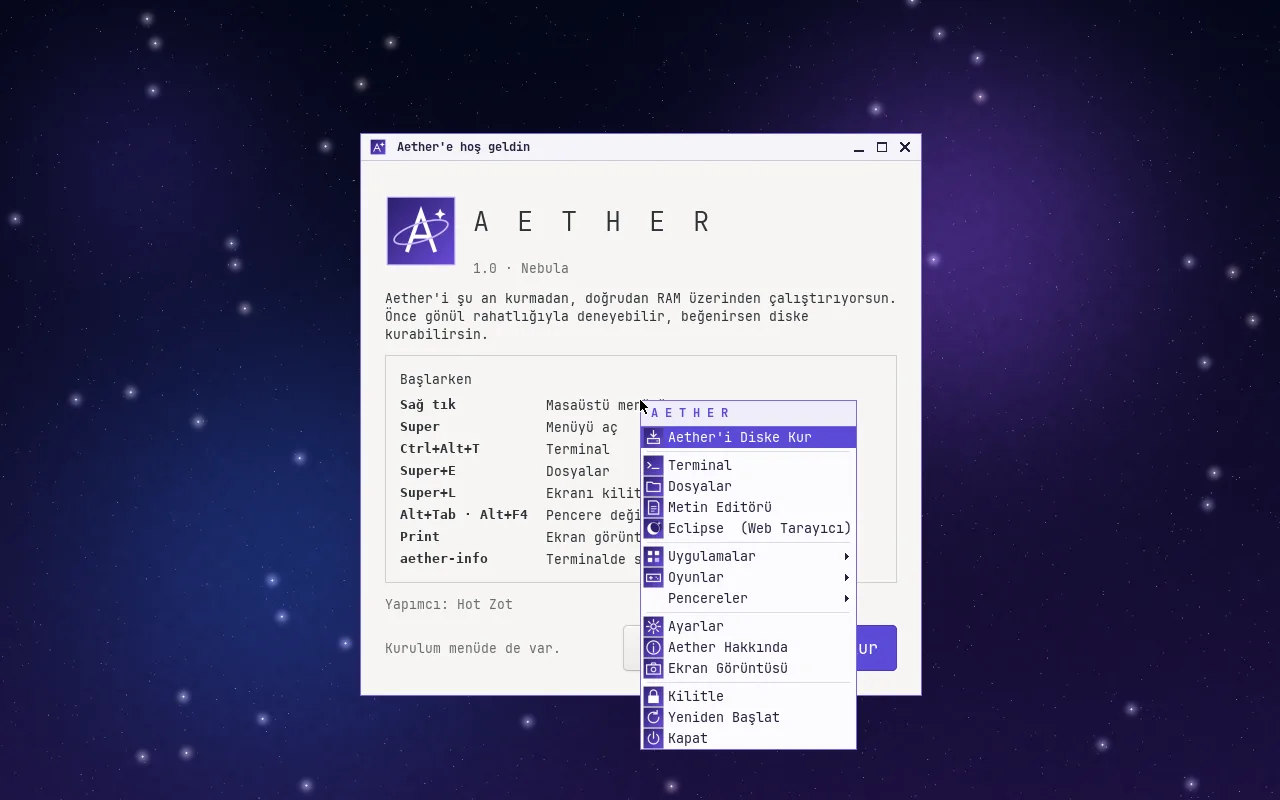
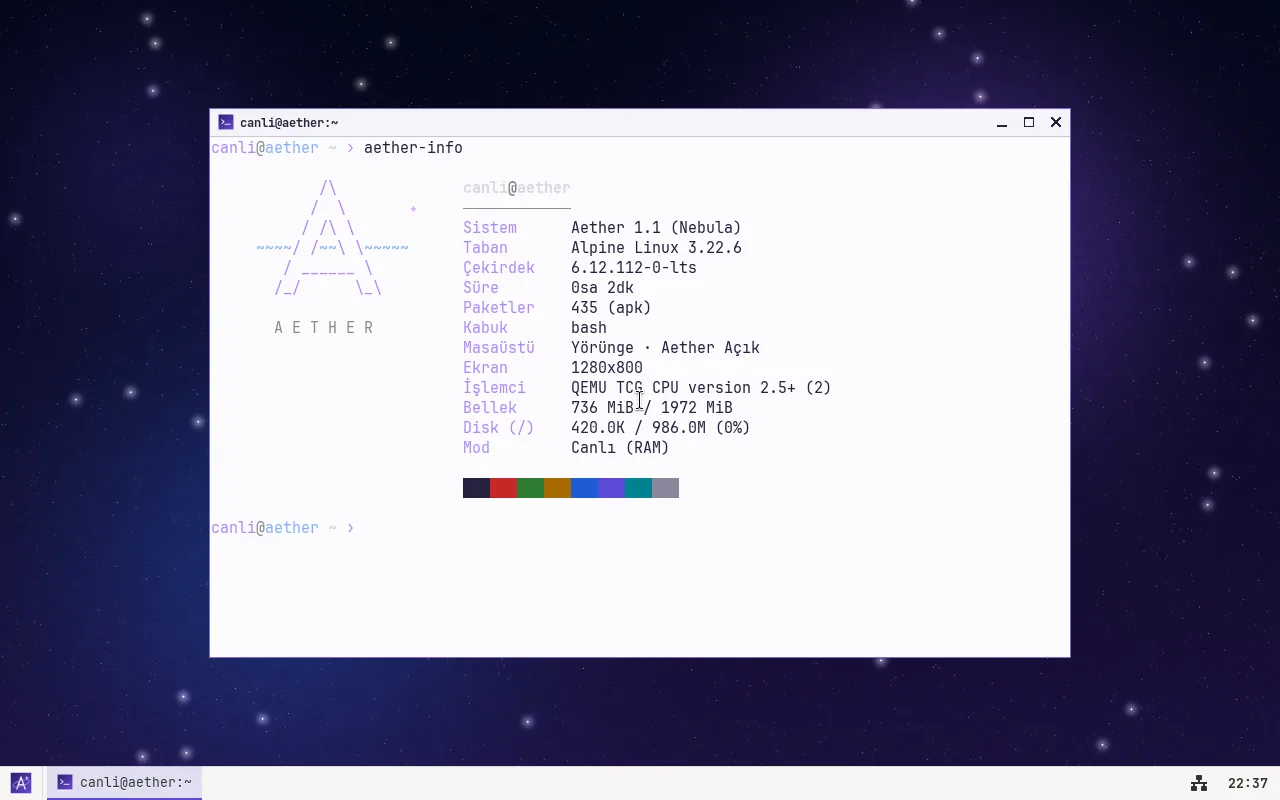
1.1 "Nebula"

Changed region(s): [[0.0, 0.125, 1.0, 1.0], [0.6562, 0.3438, 0.6875, 0.375]]

diff --git a/index.html b/index.html
@@ -102,38 +102,38 @@ pre { background: var(--kod); padding: 10px 12px; overflow-x: auto; font-size: 1
 
 <p>Merhaba, ben Hot Zot. Aether, tamamen merak ettiğim için yaptığım küçük bir Linux dağıtımı. Bir işletim sisteminin içinde neler döndüğünü görmek istedim; sonra iş büyüdü ve kendi kurulum programı, ayarları, hatta kendi tarayıcısı olan bir şeye dönüştü.</p>
 
-<p>Alpine Linux üzerine kurulu, ISO dosyası 370 MB civarında. Açılışta RAM'e yükleniyor, beğenirsen diske kurabiliyorsun. Arayüz Türkçe (İngilizce de var).</p>
+<p>Alpine Linux üzerine kurulu, ISO dosyası 485 MB civarında. Açılışta RAM'e yükleniyor, beğenirsen diske kurabiliyorsun. Arayüz Türkçe (İngilizce de var).</p>
 
 <figure>
   <a href="img/masaustu.webp"><img src="img/masaustu.webp" width="1280" height="800" alt="Aether masaüstü"></a>
-  <figcaption>Masaüstü. Menü için sağ tık ya da Super tuşu.</figcaption>
+  <figcaption>Masaüstü, Yörünge ve Aether Terminal. Menü için soldaki logo, sağ tık ya da Super tuşu.</figcaption>
 </figure>
 
 <h2 id="indir">İndir</h2>
 
-<p>Şu anki sürüm <b>1.0 "Nebula"</b> (7 Ekim 2026).</p>
+<p>Şu anki sürüm <b>1.1 "Nebula"</b> (8 Ekim 2026). Eski sürümler sürümler sayfasında duruyor.</p>
 
 <div class="tablo">
 <table>
   <tr><th>dosya</th><th>boyut</th><th>ne</th></tr>
   <tr>
-    <td><a href="https://github.com/1260120047-eng/aether/releases/download/1.0/aether-1.0-nebula.iso">aether-1.0-nebula.iso</a>
-      <span class="ozet">sha256: 4c39291651189f02c48a4a20749b7d972dfbc11af0663dd5f7e9ad2f8766d0f1</span></td>
-    <td class="boy">370 MB</td>
+    <td><a href="https://github.com/1260120047-eng/aether/releases/download/1.1/aether-1.1-nebula.iso">aether-1.1-nebula.iso</a>
+      <span class="ozet">sha256: b7f82d963c78a9e3547463438df34c16fb24ee85f16842e20599a84706650dfa</span></td>
+    <td class="boy">485 MB</td>
     <td>işletim sistemi, x86_64, BIOS + UEFI</td>
   </tr>
   <tr>
-    <td><a href="https://github.com/1260120047-eng/aether/releases/download/1.0/Eclipse-Windows.zip">Eclipse-Windows.zip</a>
-      <span class="ozet">sha256: 479babda80bb3ee3a78c6a268397ae9f922be8d7fdd01809bcf366013b6f86fd</span></td>
-    <td class="boy">530 KB</td>
+    <td><a href="https://github.com/1260120047-eng/aether/releases/download/1.1/Eclipse-Windows.zip">Eclipse-Windows.zip</a>
+      <span class="ozet">sha256: 4d2270a6167e861c8e8ca14c2fbdd2f535d514414b7749238180bb74ba35c0f3</span></td>
+    <td class="boy">575 KB</td>
     <td>Eclipse tarayıcının Windows 10/11 sürümü</td>
   </tr>
 </table>
 </div>
 
 <p>İndirdikten sonra dosyanın sağlam olup olmadığını kontrol etmek istersen:</p>
-<pre>sha256sum aether-1.0-nebula.iso                    # Linux
-certutil -hashfile aether-1.0-nebula.iso SHA256    # Windows</pre>
+<pre>sha256sum aether-1.1-nebula.iso                    # Linux
+certutil -hashfile aether-1.1-nebula.iso SHA256    # Windows</pre>
 
 <p>Aether açık kaynak. Kodların hepsi <a href="https://github.com/1260120047-eng/aether-os">github.com/1260120047-eng/aether-os</a> adresinde, GPL-3.0 lisansıyla. Nasıl derleneceği de orada yazıyor.</p>
 
@@ -143,11 +143,12 @@ certutil -hashfile aether-1.0-nebula.iso SHA256    # Windows</pre>
 
 <ul>
   <li>Linux 6.12 LTS çekirdeği, Alpine 3.22 tabanı</li>
-  <li>Openbox masaüstü, açık ve koyu tema (Ayarlar'dan anında değişiyor)</li>
+  <li>Yörünge: kendi yazdığım pencere yöneticisi. Altta görev çubuğu, açık ve koyu tema (Ayarlar'dan anında değişiyor)</li>
+  <li>Wi-Fi, ses, bildirimler. Ayarlar'da bir de Sürücüler sayfası var: donanımı tanıyor, eksik firmware'i tek tıkla kuruyor</li>
   <li>Kendi yazdığım kurulum programı: dil, klavye, kullanıcı, disk</li>
-  <li>Eclipse: yine kendi yazdığım, WebKit tabanlı tarayıcı. Sekmeler, yer imleri, geçmiş, gizli pencere var</li>
-  <li>Terminal, dosya yöneticisi, metin düzenleyici, resim görüntüleyici, hesap makinesi</li>
-  <li>Mayın Tarlası, yıldızlı ekran koruyucu, kilit ekranı</li>
+  <li>Eclipse: yine kendi yazdığım, WebKit tabanlı tarayıcı. Sekmeler, yer imleri, geçmiş, gizli pencere ve reklam engelleyici var</li>
+  <li>Kendi terminalim (sekmeli), dosya yöneticisi, metin düzenleyici, resim görüntüleyici, hesap makinesi</li>
+  <li>Mayın Tarlası, yıldızlı ekran koruyucu, kilit ekranı, 9 duvar kağıdı</li>
   <li><code>gcc</code>, <code>g++</code>, <code>make</code> kurulu geliyor; SDL2/OpenGL geliştirme paketleri Ayarlar'dan eklenebiliyor</li>
   <li>Terminalde <code>aether-info</code> ve <code>aether-guncelle</code></li>
 </ul>
@@ -185,12 +186,12 @@ certutil -hashfile aether-1.0-nebula.iso SHA256    # Windows</pre>
   <li>Kurulum bitince ISO'yu çıkarıp yeniden başlat ve kendi hesabınla gir.</li>
 </ol>
 
-<p>Açılışta sistem RAM'e kopyalanırken ekran bir dakika kadar bekleyebilir, bu normal.</p>
+<p>Sistem artık RAM'e kopyalanmayı beklemeden açılıyor, kopyalama arka planda sürüyor. QEMU'da açılış 2,5 dakikadan 70 saniyeye indi.</p>
 
 <h2 id="sorunlar">Bilinen sorunlar</h2>
 
 <ul>
-  <li>Gerçek donanımda test edilmedi. Wi-Fi, ses ve bazı ekran kartları çalışmayabilir. Denersen ne olduğunu yazarsan çok sevinirim.</li>
+  <li>Gerçek donanımda test edilmedi. Wi-Fi ve ses desteği 1.1'de geldi ama ben sadece sanal makinede deneyebildim. Denersen ne olduğunu yazarsan çok sevinirim.</li>
   <li>Ekran siyah kalırsa önyükleme menüsünden <b>Güvenli grafik</b>'i seç ya da VirtualBox'ta 3D hızlandırmayı kapat.</li>
   <li>VirtualBox'ta altta kaplumbağa simgesi çıkıyorsa Windows'ta Hyper-V açık demektir, her şey çok yavaş çalışır.</li>
   <li>Sadece 64 bit.</li>
@@ -199,6 +200,8 @@ certutil -hashfile aether-1.0-nebula.iso SHA256    # Windows</pre>
 <h2>Sürüm notları</h2>
 
 <dl class="gunluk">
+  <dt>1.1 "Nebula" <span class="soluk">· 8 Ekim 2026</span></dt>
+  <dd>Openbox gitti, yerine kendi pencere yöneticim Yörünge ve görev çubuğu geldi. Bildirimler, Wi-Fi ayarları, Sürücüler sayfası, Eclipse'e reklam engelleyici, kendi terminalim, 6 yeni duvar kağıdı. Açılış iki kattan fazla hızlandı.</dd>
   <dt>1.0 "Nebula" <span class="soluk">· 7 Ekim 2026</span></dt>
   <dd>İlk sürüm. NetSurf çıkarıldı, yerine Eclipse geldi. VirtualBox'taki siyah ekran sorunu düzeltildi.</dd>
 </dl>
@@ -232,8 +235,8 @@ certutil -hashfile aether-1.0-nebula.iso SHA256    # Windows</pre>
 </div>
 
 <div class="alt">
-  Aether, Hot Zot tarafından yapıldı ve <a href="https://github.com/1260120047-eng/aether-os">açık kaynak</a> (GPL-3.0). Alpine, Linux, Openbox, GTK, WebKit ve Mesa'yı yapan herkese teşekkürler.<br>
-  Son güncelleme: 7 Ekim 2026
+  Aether, Hot Zot tarafından yapıldı ve <a href="https://github.com/1260120047-eng/aether-os">açık kaynak</a> (GPL-3.0). Alpine, Linux, GTK, WebKit, VTE ve Mesa'yı yapan herkese, reklam listesi için AdAway'e teşekkürler.<br>
+  Son güncelleme: 8 Ekim 2026
 </div>
 
 </div>

diff --git a/en/index.html b/en/index.html
@@ -102,38 +102,38 @@ pre { background: var(--kod); padding: 10px 12px; overflow-x: auto; font-size: 1
 
 <p>Hi, I'm Hot Zot. Aether is a small Linux distribution I made purely out of curiosity. I wanted to see what goes on inside an operating system; then it grew into something with its own installer, its own settings app and even its own web browser.</p>
 
-<p>It's built on Alpine Linux and the ISO is around 370 MB. It loads into RAM at boot, and if you like it you can install it to disk. The interface is in Turkish and English (pick English in the boot menu).</p>
+<p>It's built on Alpine Linux and the ISO is around 485 MB. It loads into RAM at boot, and if you like it you can install it to disk. The interface is in Turkish and English (pick English in the boot menu).</p>
 
 <figure>
   <a href="../img/masaustu.webp"><img src="../img/masaustu.webp" width="1280" height="800" alt="Aether desktop"></a>
-  <figcaption>The desktop. Right-click or press Super for the menu.</figcaption>
+  <figcaption>The desktop, with Yörünge and Aether Terminal. For the menu, click the logo on the left, right-click, or press Super.</figcaption>
 </figure>
 
 <h2 id="download">Download</h2>
 
-<p>Current version: <b>1.0 "Nebula"</b> (7 October 2026).</p>
+<p>Current version: <b>1.1 "Nebula"</b> (8 October 2026). Older versions are on the releases page.</p>
 
 <div class="tablo">
 <table>
   <tr><th>file</th><th>size</th><th>what</th></tr>
   <tr>
-    <td><a href="https://github.com/1260120047-eng/aether/releases/download/1.0/aether-1.0-nebula.iso">aether-1.0-nebula.iso</a>
-      <span class="ozet">sha256: 4c39291651189f02c48a4a20749b7d972dfbc11af0663dd5f7e9ad2f8766d0f1</span></td>
-    <td class="boy">370 MB</td>
+    <td><a href="https://github.com/1260120047-eng/aether/releases/download/1.1/aether-1.1-nebula.iso">aether-1.1-nebula.iso</a>
+      <span class="ozet">sha256: b7f82d963c78a9e3547463438df34c16fb24ee85f16842e20599a84706650dfa</span></td>
+    <td class="boy">485 MB</td>
     <td>the operating system, x86_64, BIOS + UEFI</td>
   </tr>
   <tr>
-    <td><a href="https://github.com/1260120047-eng/aether/releases/download/1.0/Eclipse-Windows.zip">Eclipse-Windows.zip</a>
-      <span class="ozet">sha256: 479babda80bb3ee3a78c6a268397ae9f922be8d7fdd01809bcf366013b6f86fd</span></td>
-    <td class="boy">530 KB</td>
+    <td><a href="https://github.com/1260120047-eng/aether/releases/download/1.1/Eclipse-Windows.zip">Eclipse-Windows.zip</a>
+      <span class="ozet">sha256: 4d2270a6167e861c8e8ca14c2fbdd2f535d514414b7749238180bb74ba35c0f3</span></td>
+    <td class="boy">575 KB</td>
     <td>the Eclipse browser for Windows 10/11</td>
   </tr>
 </table>
 </div>
 
 <p>To check that the download isn't corrupted:</p>
-<pre>sha256sum aether-1.0-nebula.iso                    # Linux
-certutil -hashfile aether-1.0-nebula.iso SHA256    # Windows</pre>
+<pre>sha256sum aether-1.1-nebula.iso                    # Linux
+certutil -hashfile aether-1.1-nebula.iso SHA256    # Windows</pre>
 
 <p>Aether is open source. All the code is at <a href="https://github.com/1260120047-eng/aether-os">github.com/1260120047-eng/aether-os</a> under the GPL-3.0 license, along with instructions for building it.</p>
 
@@ -143,11 +143,12 @@ certutil -hashfile aether-1.0-nebula.iso SHA256    # Windows</pre>
 
 <ul>
   <li>Linux 6.12 LTS kernel on an Alpine 3.22 base</li>
-  <li>Openbox desktop with light and dark themes (switch instantly in Settings)</li>
+  <li>Yörünge, a window manager I wrote myself, with a taskbar at the bottom and light and dark themes (switch instantly in Settings)</li>
+  <li>Wi-Fi, sound and notifications. Settings also has a Drivers page that detects your hardware and installs missing firmware in one click</li>
   <li>An installer I wrote myself: language, keyboard, user, disk</li>
-  <li>Eclipse: my own WebKit-based browser, with tabs, bookmarks, history and private windows</li>
-  <li>Terminal, file manager, text editor, image viewer, calculator</li>
-  <li>Minesweeper, a starfield screensaver, a lock screen</li>
+  <li>Eclipse: my own WebKit-based browser, with tabs, bookmarks, history, private windows and an ad blocker</li>
+  <li>My own terminal (with tabs), file manager, text editor, image viewer, calculator</li>
+  <li>Minesweeper, a starfield screensaver, a lock screen, 9 wallpapers</li>
   <li><code>gcc</code>, <code>g++</code> and <code>make</code> come preinstalled; SDL2/OpenGL development packages can be added from Settings</li>
   <li><code>aether-info</code> and <code>aether-guncelle</code> (update) in the terminal</li>
 </ul>
@@ -186,12 +187,12 @@ certutil -hashfile aether-1.0-nebula.iso SHA256    # Windows</pre>
   <li>When the install finishes, remove the ISO, restart and log in with your own account.</li>
 </ol>
 
-<p>While the system is being copied into RAM at boot, the screen may sit still for about a minute. That's normal.</p>
+<p>The system no longer waits to be copied into RAM; the copy runs in the background. In QEMU, boot went from 2.5 minutes to 70 seconds.</p>
 
 <h2 id="issues">Known issues</h2>
 
 <ul>
-  <li>Not tested on real hardware. Wi-Fi, sound and some graphics cards may not work. If you try it, I'd love to hear how it went.</li>
+  <li>Not tested on real hardware. Wi-Fi and sound support arrived in 1.1, but I could only try them in a virtual machine. If you try it, I'd love to hear how it went.</li>
   <li>If the screen stays black, choose <b>Safe graphics</b> in the boot menu, or turn off 3D acceleration in VirtualBox.</li>
   <li>If VirtualBox shows a turtle icon at the bottom, Hyper-V is enabled on Windows and everything will be very slow.</li>
   <li>64-bit only.</li>
@@ -200,6 +201,8 @@ certutil -hashfile aether-1.0-nebula.iso SHA256    # Windows</pre>
 <h2>Release notes</h2>
 
 <dl class="gunluk">
+  <dt>1.1 "Nebula" <span class="soluk">· 8 October 2026</span></dt>
+  <dd>Openbox is gone; my own window manager Yörünge and a taskbar replace it. Notifications, Wi-Fi settings, a Drivers page, an ad blocker in Eclipse, my own terminal, 6 new wallpapers. Boot is more than twice as fast.</dd>
   <dt>1.0 "Nebula" <span class="soluk">· 7 October 2026</span></dt>
   <dd>First release. NetSurf was removed and replaced with Eclipse. Fixed the black screen in VirtualBox.</dd>
 </dl>
@@ -233,8 +236,8 @@ certutil -hashfile aether-1.0-nebula.iso SHA256    # Windows</pre>
 </div>
 
 <div class="alt">
-  Aether is made by Hot Zot and is <a href="https://github.com/1260120047-eng/aether-os">open source</a> (GPL-3.0). Thanks to everyone who makes Alpine, Linux, Openbox, GTK, WebKit and Mesa.<br>
-  Last updated: 7 October 2026
+  Aether is made by Hot Zot and is <a href="https://github.com/1260120047-eng/aether-os">open source</a> (GPL-3.0). Thanks to everyone who makes Alpine, Linux, GTK, WebKit, VTE and Mesa, and to AdAway for the ad list.<br>
+  Last updated: 8 October 2026
 </div>
 
 </div>
